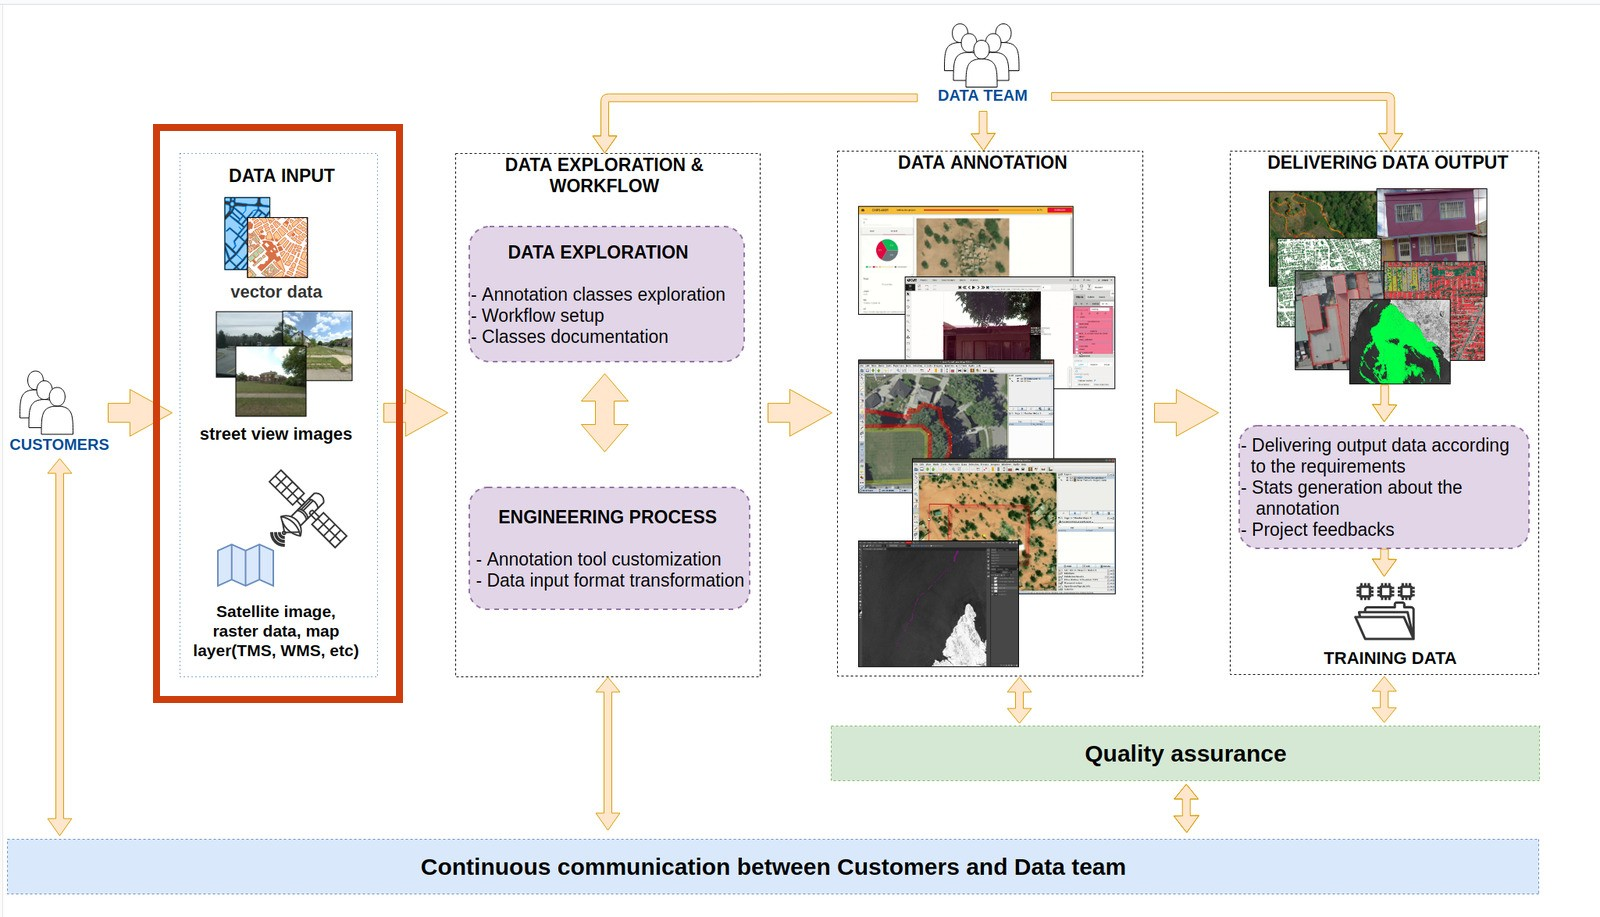
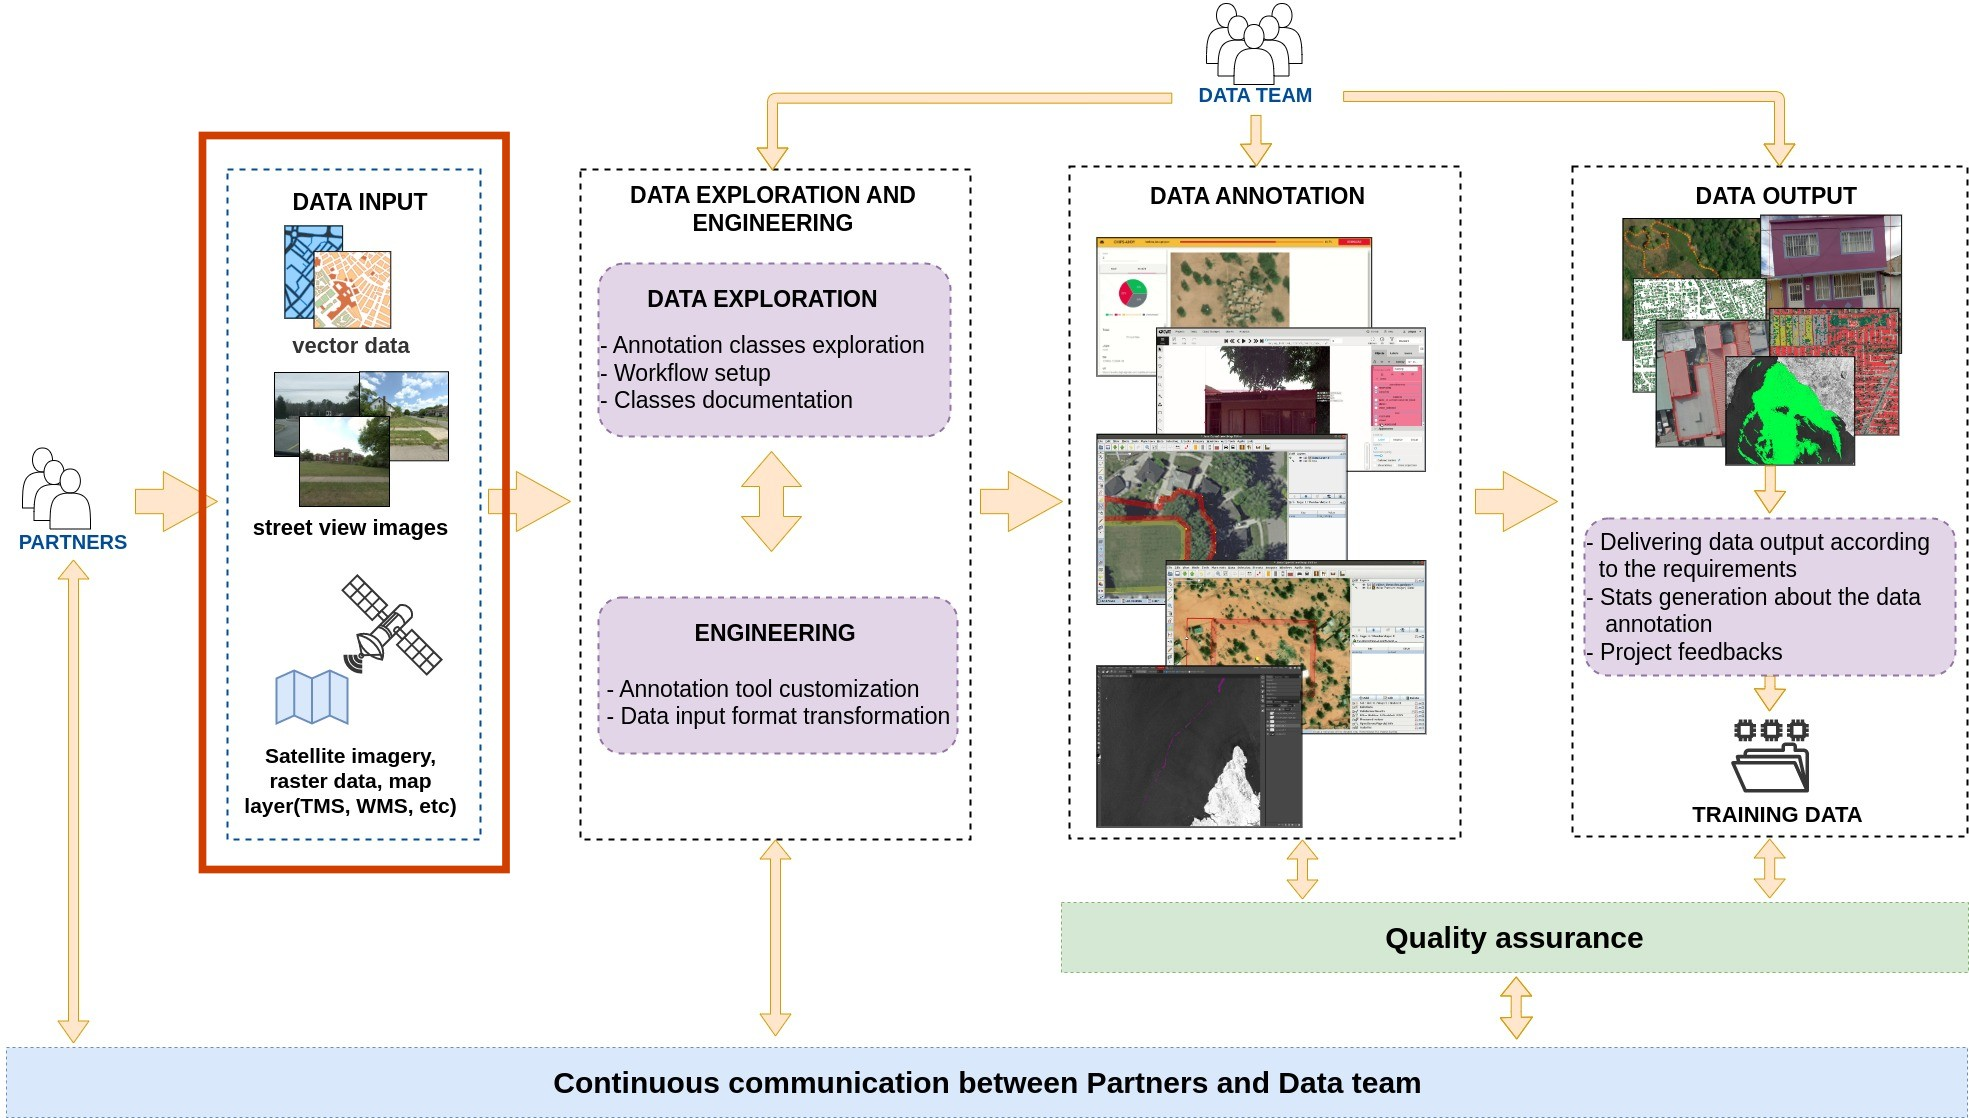
Improving sentences

diff --git a/app/posts/s3-mapping/3-0-mapping/index.md b/app/posts/s3-mapping/3-0-mapping/index.md
@@ -4,12 +4,14 @@ date: 2012-08-20
 layout: post.html
 ---
 
-The Data team has mapped and edited more than 25 million objects in OpenStreetMap and created routable road networks for the biggest names in navigation, so Development Seed's Data team is among the best in the world at creating and improving map data. The Data team has extensive experience with the OSM ecosystem, software stack, and metadata standards. Something to keep in mind is that the Data team members come to Development Seed from Mapbox where they worked on several of the biggest and toughest mapping challenges.
+Development Seed's Data team is among the best in the world at developing and improving map data. The Data team worked on several of the biggest and toughest mapping challenges, they mapped and edited more than 25 million objects in OpenStreetMap (OSM) and created routable road networks for the biggest names in navigation like Mapbox. The Data team has extensive experience with the OSM ecosystem, software stack, and metadata standards.
 
-The Data team offers data with high quality and also a good average on mapping, the average on mapping varies according to the density and complexity of the features to map, and also of the satellite imagery quality. Here there is the Data team average per each feature:
+The Data team maps at an average speed and quality unparalleled in the industry. The average mapping time varies depending on the density and complexity of the features to map as well as the quality of the satellite imagery. 
+
+Here are some examples of the different types of mapping complexity that could impact mapping speed:
 
 ### - Building:
-For mapping buildings, the Data team average varies according to the density of the buildings that are in an area. This density is classified as low, intermediate, and high.
+For mapping buildings, the Data team average mapping time varies according to the density of the buildings in an area. This density is classified as low, intermediate, and high.
 
 <table class="table">
   <thead>
@@ -70,7 +72,7 @@ The table below indicates the average mapping time of buildings per square kilom
 </table>
 
 ### - Highway:
-For mapping highways, the Data team average varies according to the density of the buildings that are in an area. This density is classified as low, intermediate, and high.
+For mapping highways, the Data team average mapping time varies according to the density of the highways in an area. This density is classified as low, intermediate, and high.
 
 <table class="table">
   <thead>
@@ -94,7 +96,7 @@ For mapping highways, the Data team average varies according to the density of t
     </tr>
     <tr>
       <td style="text-align: justify; padding: 12px;">Where there are only a few highways. This density type can be seen in rural areas.</td>
-      <td style="text-align: justify; padding: 12px;">Where there are a lot of highways. This density type can be seen in urban areas.</td>
+      <td style="text-align: justify; padding: 12px;">Where there are several highways. This density type can be seen in urban areas.</td>
       <td style="text-align: justify; padding: 12px;">Where there are a lot of highways. This density type can be seen in urban areas.</td>
     </tr>
   </tbody>
@@ -131,7 +133,7 @@ The table below indicates the average mapping time of highways per square kilome
 </table>
 
 ### - Farm field:
-For mapping farm fields, the Data team average varies according to the farm field shape complexity. This shape complexity is classified as low, medium, and high.
+For mapping farm fields, the Data team average mapping time varies according to the farm field shape complexity. This shape complexity is classified as low, medium, and high.
 
 <table class="table">
   <thead>
@@ -192,10 +194,10 @@ The table below indicates the average mapping time of farm fields.
 </table>
 
 ## Data team's mapping tools
-The Data team, for mapping, use these tools:
+The Data team uses these tools for mapping:
 
-- [JOSM](https://josm.openstreetmap.de/) as an editor, where the Data team can do easier and faster the editions.
-- [Tasking Manager](https://github.com/hotosm/tasking-manager), for dividing the AOI into small areas in order to each mapper can select a task, and avoid conflicts.
+- [JOSM](https://josm.openstreetmap.de/) as an editor, where the Data team can do edits faster and easier.
+- [Tasking Manager](https://github.com/hotosm/tasking-manager), for dividing the AOI into small areas so each mapper can select a task and avoid conflicts.
 - [OpenStreetMap](https://www.openstreetmap.org/), a collaborative project to create free and editable maps.
 
 ## Data team's mapping projects

diff --git a/app/posts/s1-workflow/1-0-workflow/index.md b/app/posts/s1-workflow/1-0-workflow/index.md
@@ -4,13 +4,22 @@ date: 2012-08-20
 layout: post.html
 ---
 
-Development Seed's Data team has a structured and efficient workflow that involves the necessary processes and activities to generate a high-quality training dataset, and this helps them speed up the annotation process.
+Development Seed's Data team has a structured and efficient workflow that includes all the processes necessary to generate high-quality training datasets, which in turn helps speed up the data annotation process.
 
 <figure class="align-center">
- <img src="/assets/images/data_team_workflow_qa.jpg"/>
+ <img src="/assets/images/data_team_workflow_v2.jpg"/>
  <figcaption>Data team workflow</figcaption>
 </figure>
  
-Once the Data team knows the requirements of the customer and has access to the [data input](/../workflow/data-input/), they start the development of the project based on their workflow that contains three main processes: [data exploration & workflow](/../workflow/data-exploration-workflow/), [data annotation](/../workflow/data-annotation/), and [delivering data output](/../workflow/delivering-data-output/). In each of these processes, different activities are developed until the training data is obtained.
+Once the project requirements and [data inputs](/../workflow/data-input/) are established, the project development workflow contains three main processes: [data exploration and engineering](/../workflow/data-exploration-and-engineering/), [data annotation](/../workflow/data-annotation/), and [data output](/../workflow/data-output/). Customized workflows are developed and refined within each process until the training dataset is complete.
  
-Along the processes on the workflow, [quality assurance](/../workflow/quality-assurance/) process and a  [continuous communication](/../workflow/continuous-communication/) were embedded to ensure the training data aligns with the customer's expectations.
+Alongside the technical workflow customization during project development, [quality assurance](/../workflow/quality-assurance/) and [continuous communication](/../workflow/continuous-communication/) ensure the training data aligns with the partner’s expectations.
+
+In the following sections about our workflow processes, you can find more details:
+
+- [Data input](/../workflow/data-input/)
+- [Data exploration and engineering](/../workflow/data-exploration-and-engineering/)
+- [Data annotation](/../workflow/data-annotation/)
+- [Data output](/../workflow/data-output/)
+- [Quality assurance](/../workflow/quality-assurance/)
+- [Continuous communication](/../workflow/continuous-communication/)

diff --git a/app/posts/s1-workflow/1-5-quality-assurance/index.md b/app/posts/s1-workflow/1-5-quality-assurance/index.md
@@ -9,10 +9,10 @@ layout: post.html
  <figcaption>Quality assurance</figcaption>
 </figure>
  
-The Data team is fully aware that data quality is directly related to the effectiveness of AI/ML models, so, ensuring data quality is of great importance, so, the Data team embedded the Quality Assurance (QA) process in its workflow in such a way that it allows guaranteeing a continuous improvement of the training data during the data annotation process and the delivering data output process.
+Data quality is directly related to the effectiveness of AI/ML models, so ensuring data quality is very important. The Data team has embedded the Quality Assurance (QA) process in its workflow to guarantee continuous improvement of the training data during the data annotation and data output processes.
 
-Good practices that the Data team follow to deliver high-quality training data are:
+The best practices that the Data team follows in our QA process to deliver high-quality training data are:
 
-- Internal revision; the Data team does a manual data validation of the first bunch of the annotated data to ensure that all the annotators are following the same perspective in the labeling and to find possible common issues in advance.
-- Feedback from customers; the Data team sends one first dataset of the annotation in order to have a revision of the customers and receive feedback.
-- Validations scripts; in addition to manual data revision, the Data team writes scripts to find issues in the data automatically and issues that can escape the human eyes, thus speeding up the data validation.
+- Internal revision; the Data team does a manual data validation of a test batch of the annotated data to ensure that all the annotators are following the same perspective in the labeling and to find possible common issues in advance.
+- Feedback from partners; the Data team sends one first dataset of the annotation to have partners review. Feedback is then incorporated to improve annotation quality.
+- Validations scripts; in addition to manual data revision, the Data team writes scripts to automatically find issues in the data and problems that can escape the human eyes, thus speeding up the data validation.

diff --git a/app/posts/s1-workflow/1-1-data-input/index.md b/app/posts/s1-workflow/1-1-data-input/index.md
@@ -9,6 +9,6 @@ layout: post.html
  <figcaption>Data input</figcaption>
 </figure>
 
-The data input for a project could be of any data format such as vector data, street view images, raster data, satellite images, and map layers (e.g. TMS, WMS, COGS, TIFF, etc.). The Data team has extensive experience in handling all these data formats, so this allows it to cover different data inputs and start a project without any issues.
+The data input for a project could be vector data, street view images, raster data, satellite imagery, and map layers (e.g. TMS, WMS, COGS, TIFF, etc.). The Data team has extensive experience handling all these data formats without any issues.
 
-Talking about data sources, in some projects, customers can come with their own data to be processed, or in some cases, customers want to use public data, but usually, an annotation project could have different data sources and could involve different data formats.
+In some projects, partners provide their data to be processed, or you may want to use public data. One annotation project can have multiple data sources and involve different data formats. The data inputs will, in part, dictate the complexity of the workflow.

diff --git a/app/posts/s1-workflow/1-2-data-exploration-engineering-process/index.md b/app/posts/s1-workflow/1-2-data-exploration-engineering-process/index.md
@@ -1,0 +1,18 @@
+---
+title: Data exploration and engineering
+date: 2012-08-20
+layout: post.html
+---
+ 
+<figure class="align-center">
+ <img src="/assets/images/workflow_exploration_engineering.jpg"/>
+ <figcaption>Data exploration and engineering process</figcaption>
+</figure>
+
+This process involves two essential activities: data exploration and engineering.
+ 
+**Data exploration:**
+The Data team explores the classes of interest to recognize and document them, and then they set up an efficient workflow that will align with the required annotation type and the annotation tool.
+ 
+**Engineering:**
+Some projects may require customization of the annotation tools depending on the input data used. The Data team has vast experience with tool customization. One benefit of tool customization is increasing the annotation speed. Tool customization could be as simple as a few scripts for data transformation. Other customizations may involve multiple steps in the engineering workflow.

diff --git a/app/posts/s1-workflow/1-4-data-output-process/index.md b/app/posts/s1-workflow/1-4-data-output-process/index.md
@@ -1,0 +1,16 @@
+---
+title: Data output
+date: 2012-08-20
+layout: post.html
+---
+ 
+<figure class="align-center">
+ <img src="/assets/images/workflow_data_output.jpg"/>
+ <figcaption>Data output process</figcaption>
+</figure>
+
+Once data annotation is complete, some final activities include:
+ 
+- Delivering data output in the format the partner needs; sometimes, this requires data format conversion, and the Data team will write a script to convert the data. Data is then delivered to the partner.
+- Summary statistics are generated about the data annotation. For example, how many classes have been created in the whole dataset.
+- Project feedback; both the partner and the Data team provide feedback to each other about what went well and what could be improved in future projects.

diff --git a/app/posts/s1-workflow/1-3-data-annotation-process/index.md b/app/posts/s1-workflow/1-3-data-annotation-process/index.md
@@ -9,7 +9,7 @@ layout: post.html
  <figcaption>Data annotation process</figcaption>
 </figure>
 
-As soon as the Data team has the data input ready to use it in the annotation tool and a well-documented annotation workflow, the Data team performs the data annotation or mapping. The below list show the different annotation types that the Data team works:
+Once the Data is familiar with the input data, created any custom tools, and a well-documented annotation workflow, the Data team performs the data annotation or mapping. The different annotation types that the Data team has experience with:
  
 - [Image classification](/../annotation-type/image-classification/)
 - [Object detection](/../annotation-type/object-detection/)

diff --git a/app/posts/s1-workflow/1-6-continuous-communication/index.md b/app/posts/s1-workflow/1-6-continuous-communication/index.md
@@ -9,4 +9,4 @@ layout: post.html
  <figcaption>Continuous communication</figcaption>
 </figure>
 
-The Data team is in constant communication with the customers throughout all the processes of the workflow to ensure that their requirements are met and provide feedback on the annotated classes to ensure they are suitable for machine learning models.
+The Data team is in constant contact with the partners throughout the workflow processes to ensure that their requirements are met and provide feedback that the annotated classes are suitable for machine learning models.
